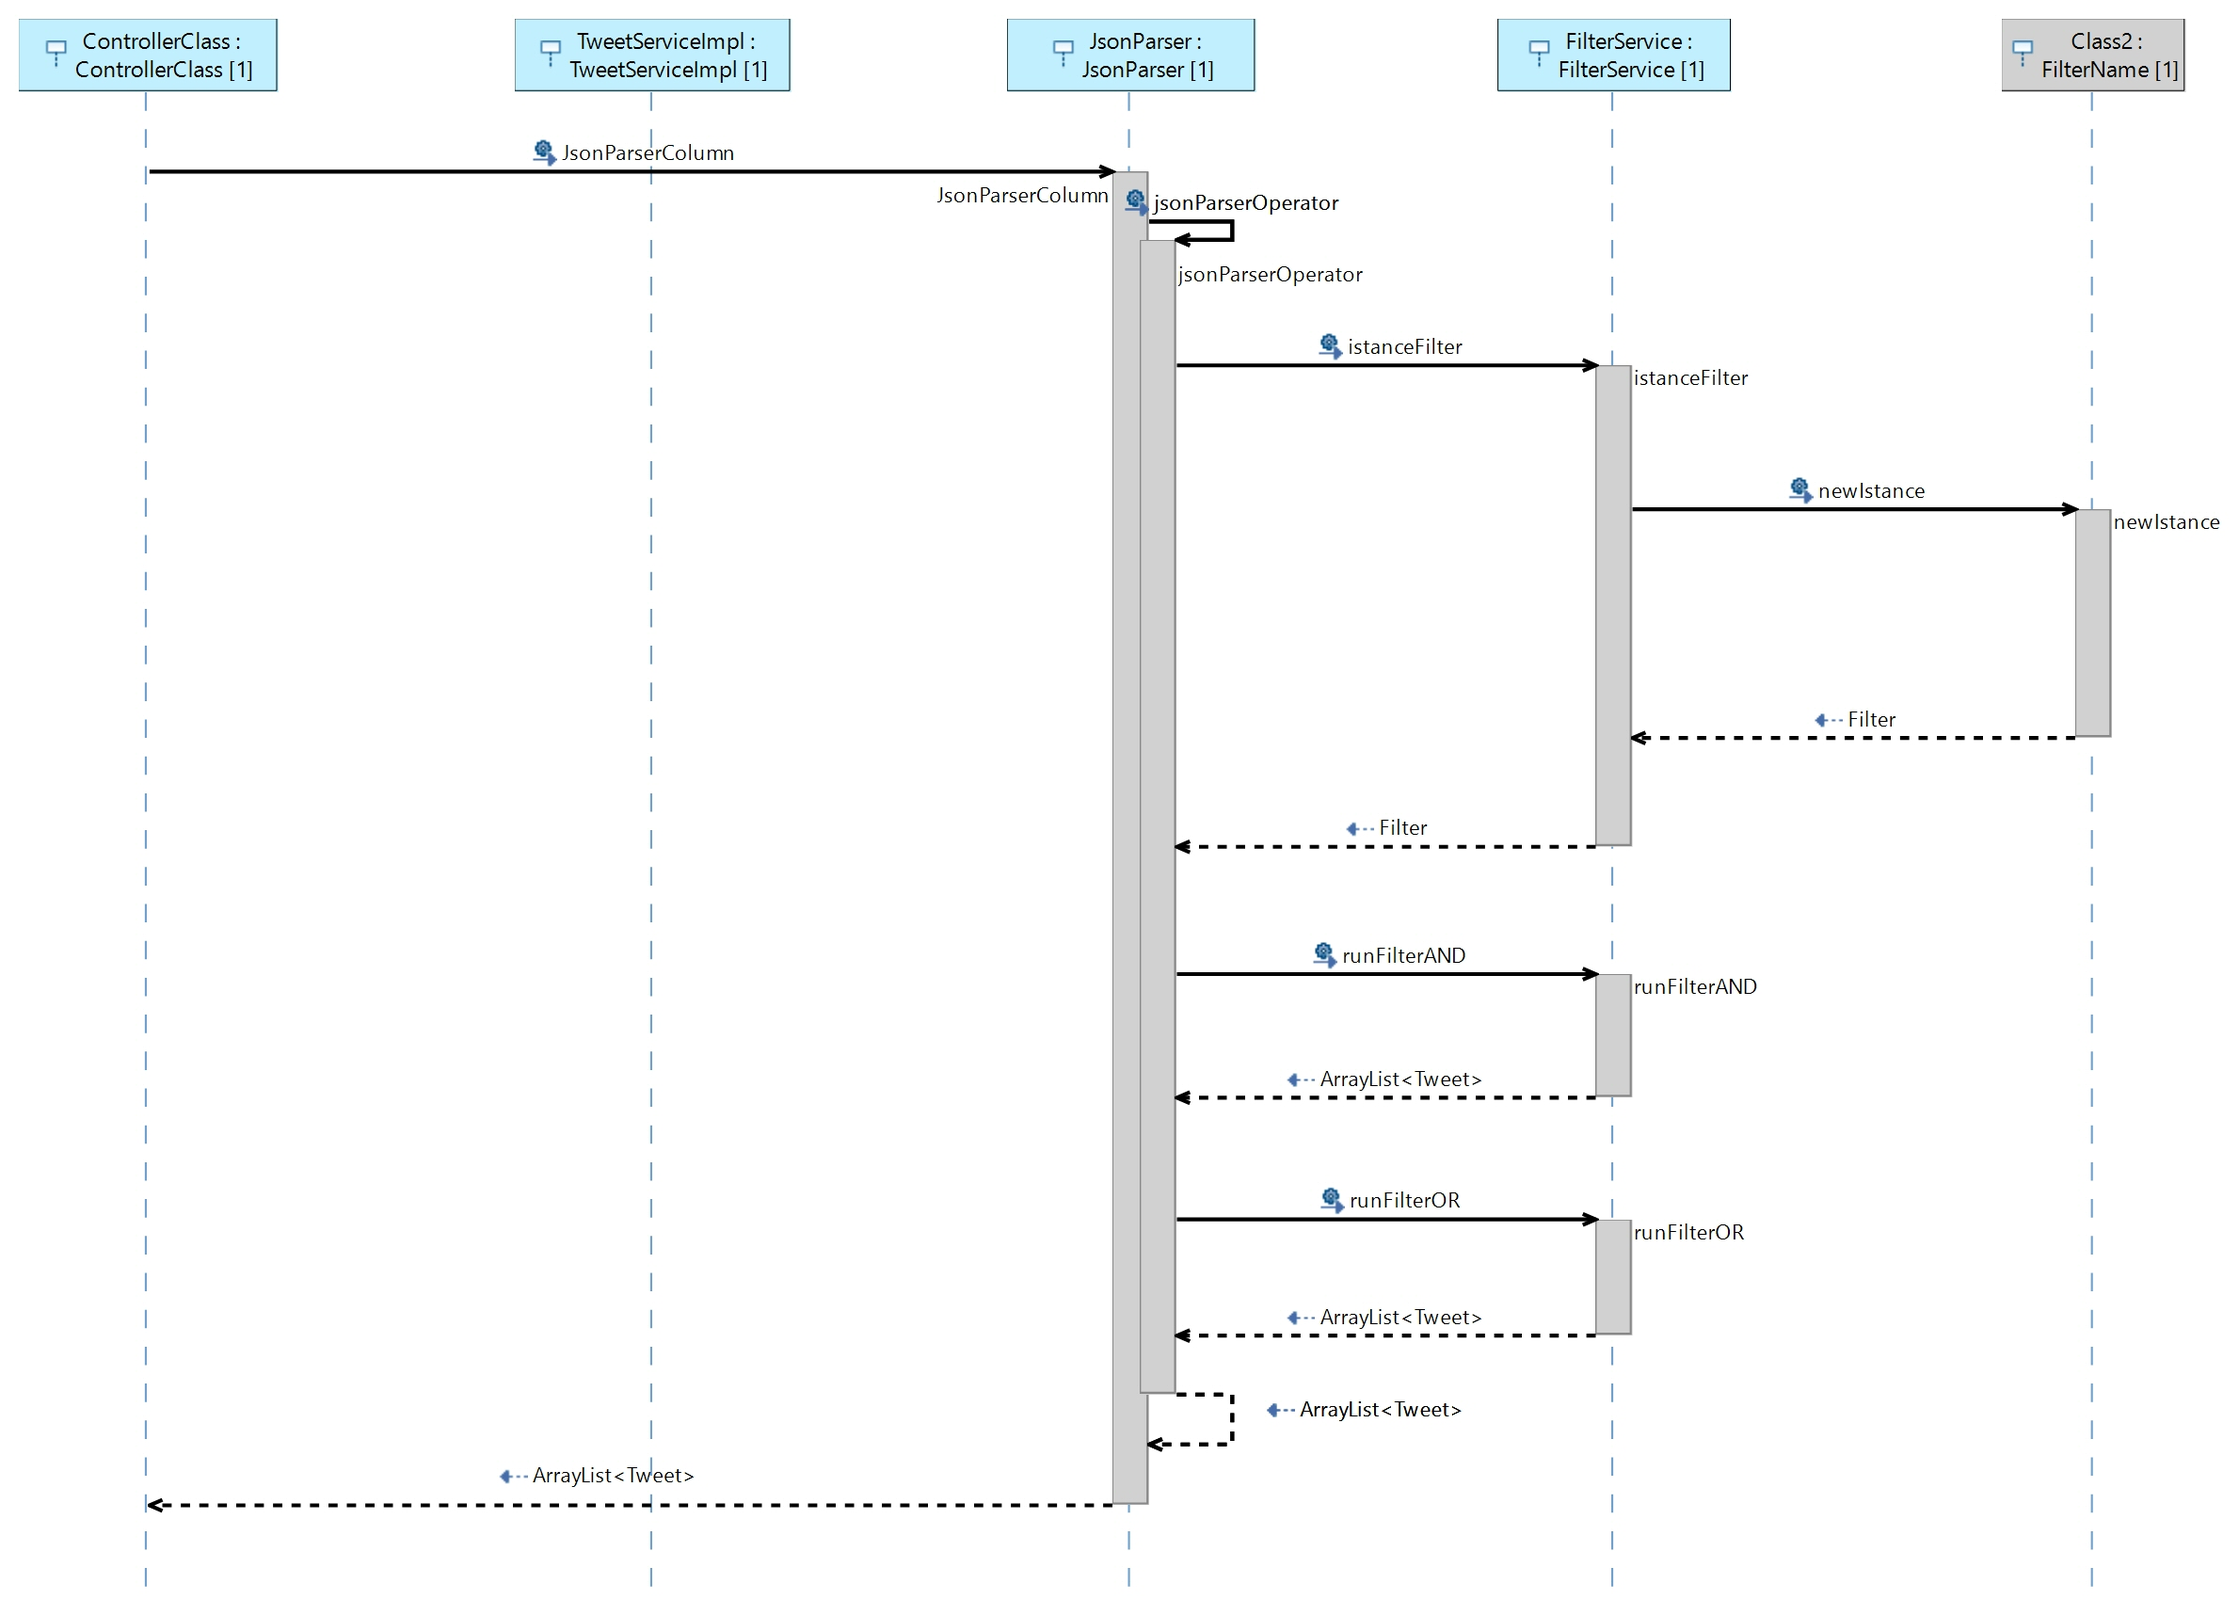
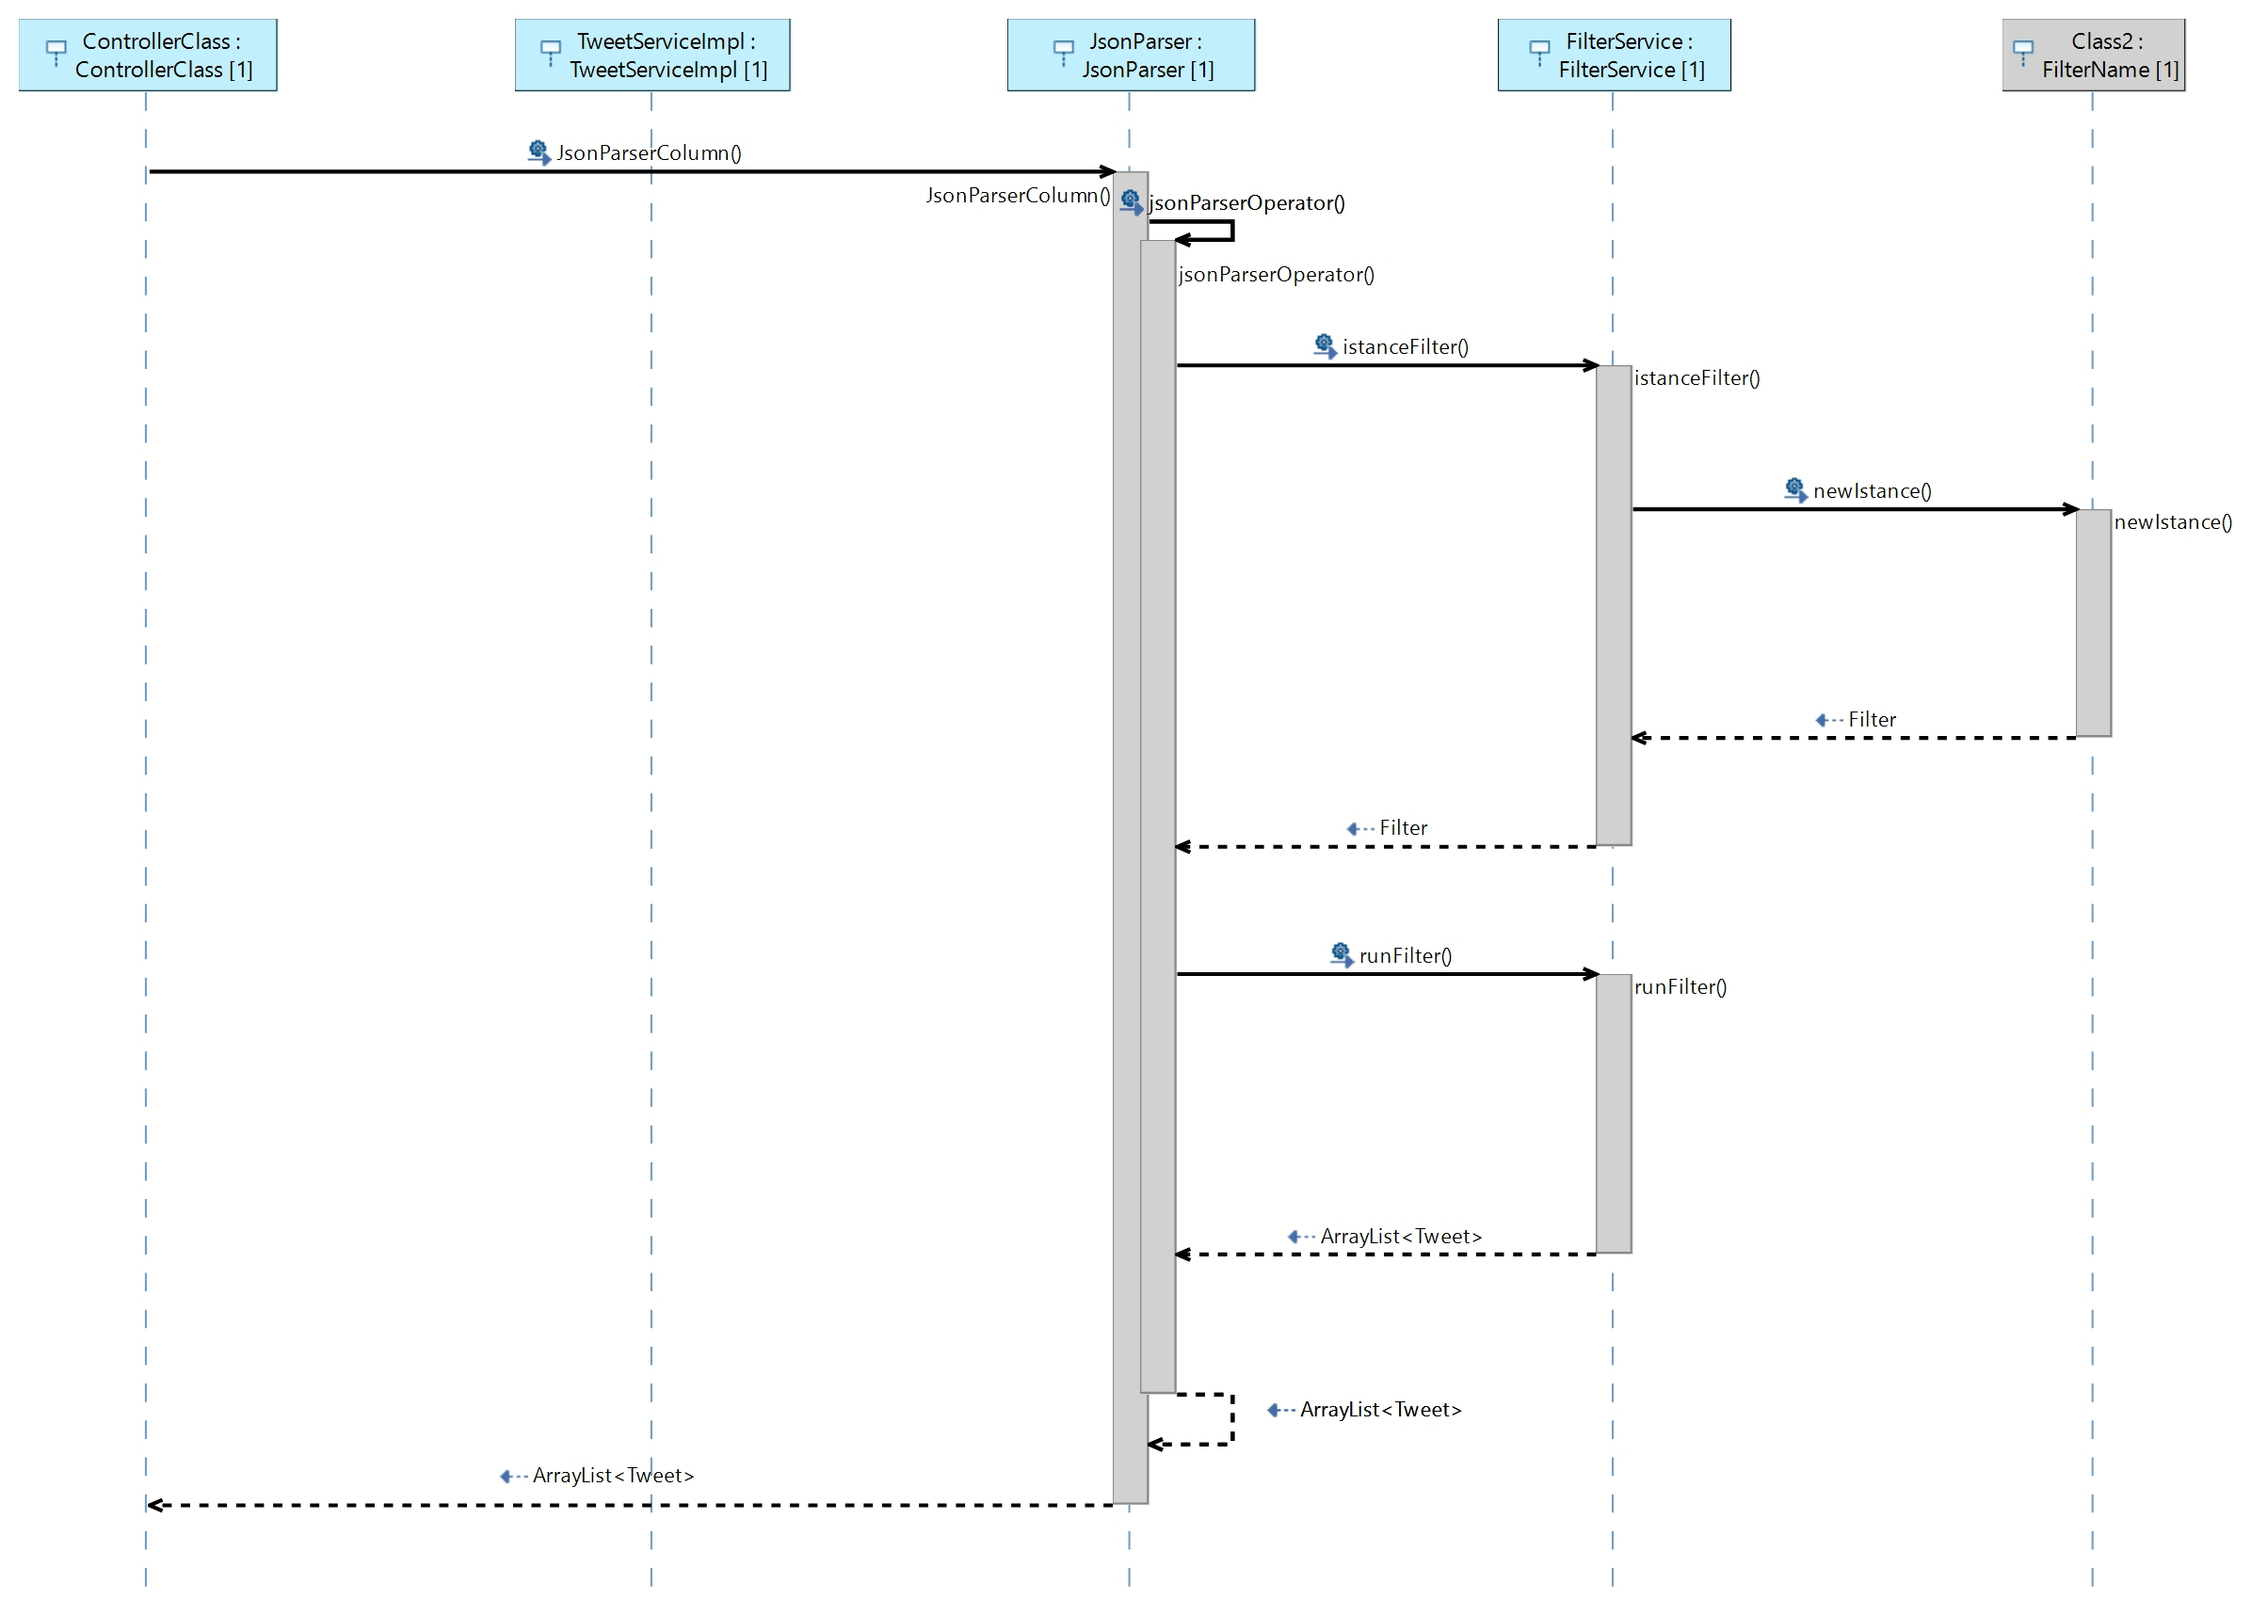
modificati uml sequence diagram

diff --git a/ProgettoOOP/src/main/java/it/univpm/ProgettoOOP/service/JsonParser.java b/ProgettoOOP/src/main/java/it/univpm/ProgettoOOP/service/JsonParser.java
@@ -69,9 +69,7 @@ public class JsonParser {
 			
 			if (type == "and")
 				filteredArray = FilterService.runFilterAND(filter, previousArray);
-			else if(type == "or")
-				filteredArray = FilterService.runFilterOR(filter, previousArray);
-			else
+			else 
 				filteredArray = FilterService.runFilterOR(filter, previousArray);
 		
 		}
